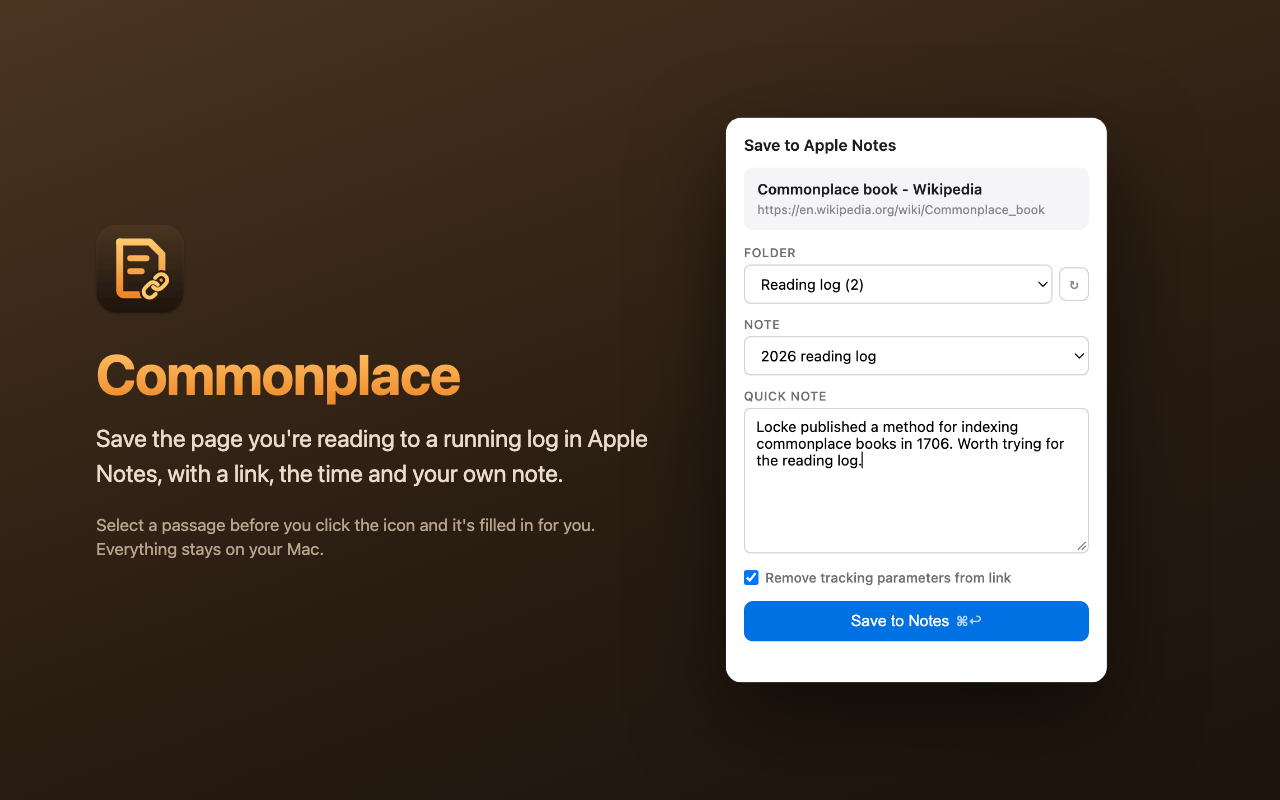
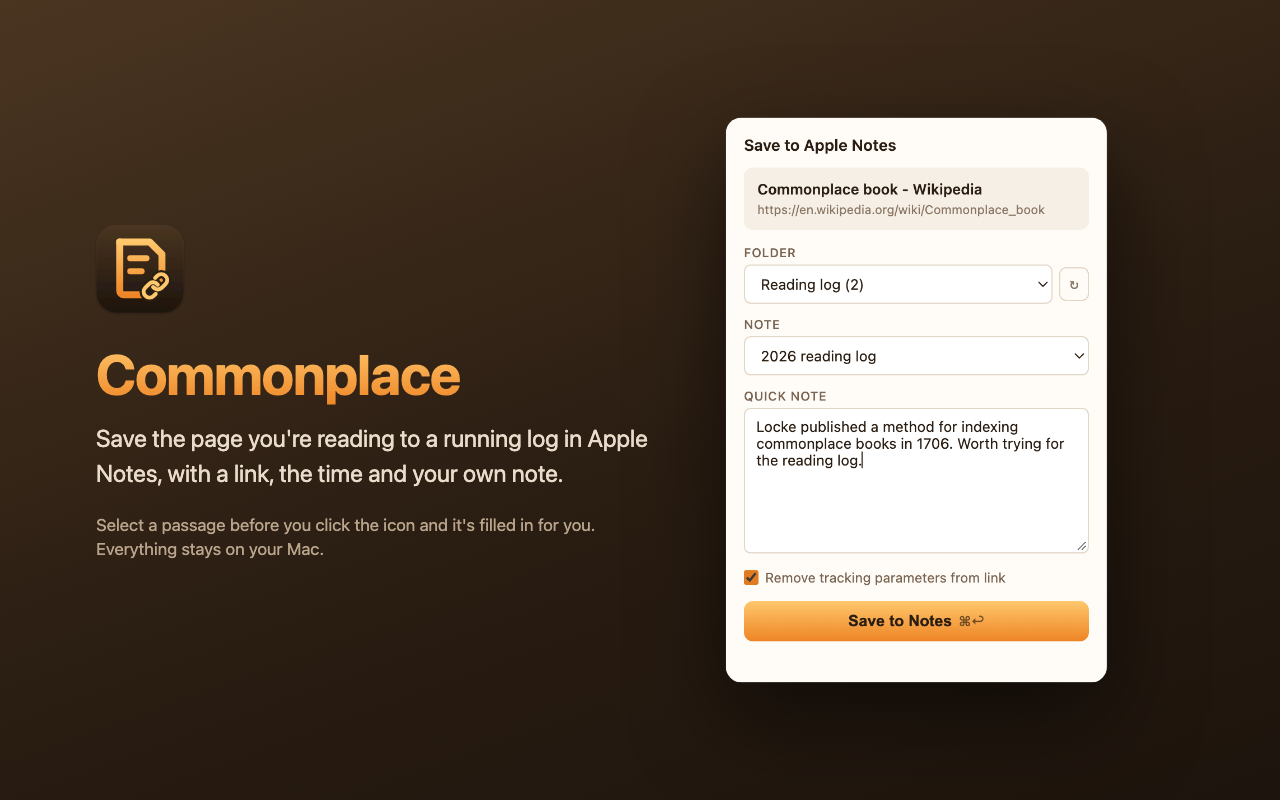
Restyle popup in the Commonplace palette; notarize with quoth-notary
- Popup uses the icon's warm browns with the orange gradient for the
  primary button, checkbox and focus states, plus a matching dark mode
  (previously always white with Apple-blue accents)
- build.sh defaults to the existing quoth-notary notarytool profile
- Regenerated store images

diff --git a/extension/popup.html b/extension/popup.html
@@ -3,6 +3,36 @@
     <head>
         <meta charset="utf-8" />
         <style>
+            /* Palette from the Commonplace icon: warm browns with an orange gradient accent */
+            :root {
+                color-scheme: light dark;
+                --bg: #fffcf8;
+                --surface: #f6efe6;
+                --field: #ffffff;
+                --border: #e2d6c7;
+                --text: #2a1d12;
+                --muted: #8a7663;
+                --label: #7a6552;
+                --accent: #e07b1f;
+                --accent-gradient: linear-gradient(180deg, #ffc86c, #ee8526);
+                --on-accent: #2a1d12;
+                --ok: #2e7d32;
+                --err: #c62828;
+            }
+            @media (prefers-color-scheme: dark) {
+                :root {
+                    --bg: #241910;
+                    --surface: #33251a;
+                    --field: #2c2016;
+                    --border: #4a3828;
+                    --text: #f3e8da;
+                    --muted: #b59e86;
+                    --label: #a88f76;
+                    --accent: #f5a24a;
+                    --ok: #81c784;
+                    --err: #ef8a80;
+                }
+            }
             * {
                 box-sizing: border-box;
                 margin: 0;
@@ -12,9 +42,10 @@
                 width: 340px;
                 font-family: -apple-system, BlinkMacSystemFont, "Segoe UI", sans-serif;
                 font-size: 13px;
-                color: #1d1d1f;
+                color: var(--text);
                 padding: 16px;
-                background: #fff;
+                background: var(--bg);
+                accent-color: var(--accent);
             }
             h1 {
                 font-size: 14px;
@@ -22,7 +53,7 @@
                 margin-bottom: 12px;
             }
             .page-info {
-                background: #f5f5f7;
+                background: var(--surface);
                 border-radius: 8px;
                 padding: 10px 12px;
                 margin-bottom: 14px;
@@ -36,7 +67,7 @@
                 overflow: hidden;
             }
             .page-url {
-                color: #86868b;
+                color: var(--muted);
                 font-size: 11px;
                 margin-top: 2px;
                 white-space: nowrap;
@@ -47,7 +78,7 @@
                 display: block;
                 font-weight: 500;
                 margin-bottom: 4px;
-                color: #6e6e73;
+                color: var(--label);
                 font-size: 11px;
                 text-transform: uppercase;
                 letter-spacing: 0.5px;
@@ -56,28 +87,33 @@
             textarea,
             input[type="text"] {
                 width: 100%;
-                border: 1px solid #d2d2d7;
+                border: 1px solid var(--border);
                 border-radius: 6px;
                 padding: 8px 10px;
                 font-family: inherit;
                 font-size: 13px;
+                color: var(--text);
                 margin-bottom: 12px;
                 outline: none;
-                transition: border-color 0.15s;
-                background: #fff;
+                transition: border-color 0.15s, box-shadow 0.15s;
+                background: var(--field);
             }
             select:focus,
             textarea:focus,
             input[type="text"]:focus {
-                border-color: #0071e3;
+                border-color: var(--accent);
+                box-shadow: 0 0 0 3px color-mix(in srgb, var(--accent) 22%, transparent);
             }
             select:disabled {
-                background: #f5f5f7;
-                color: #86868b;
+                background: var(--surface);
+                color: var(--muted);
             }
             textarea {
                 height: 130px;
                 resize: vertical;
+            }
+            textarea::placeholder {
+                color: var(--muted);
             }
             .row {
                 display: flex;
@@ -91,19 +127,19 @@
             }
             .refresh-btn {
                 background: none;
-                border: 1px solid #d2d2d7;
+                border: 1px solid var(--border);
                 border-radius: 6px;
                 padding: 7px 8px;
                 cursor: pointer;
                 font-size: 14px;
                 line-height: 1;
-                color: #86868b;
-                transition: border-color 0.15s;
+                color: var(--muted);
+                transition: border-color 0.15s, color 0.15s;
                 flex-shrink: 0;
             }
             .refresh-btn:hover {
-                border-color: #0071e3;
-                color: #0071e3;
+                border-color: var(--accent);
+                color: var(--accent);
             }
             .refresh-btn.busy {
                 animation: spin 0.9s linear infinite;
@@ -125,31 +161,43 @@
                 align-items: center;
                 gap: 6px;
                 margin-bottom: 14px;
-                font-size: 12px;
-                color: #6e6e73;
             }
             .checkbox-row input {
                 margin: 0;
+            }
+            .checkbox-row label {
+                margin: 0;
+                text-transform: none;
+                font-size: 12px;
+                font-weight: 400;
+                letter-spacing: 0;
             }
             button#save,
             button#setupLink {
                 width: 100%;
                 padding: 10px;
-                background: #0071e3;
-                color: #fff;
+                background: var(--accent-gradient);
+                color: var(--on-accent);
                 border: none;
                 border-radius: 8px;
                 font-size: 14px;
-                font-weight: 500;
+                font-weight: 600;
                 cursor: pointer;
-                transition: background 0.15s;
+                transition: filter 0.15s;
             }
             button#save:hover,
             button#setupLink:hover {
-                background: #0077ed;
+                filter: brightness(1.05);
+            }
+            button#save:focus-visible,
+            button#setupLink:focus-visible {
+                outline: 2px solid var(--accent);
+                outline-offset: 2px;
             }
             button#save:disabled {
-                background: #d2d2d7;
+                background: var(--surface);
+                color: var(--muted);
+                filter: none;
                 cursor: default;
             }
             .status {
@@ -159,17 +207,18 @@
                 min-height: 16px;
             }
             .status.ok {
-                color: #248a3d;
+                color: var(--ok);
             }
             .status.err {
-                color: #ff3b30;
+                color: var(--err);
             }
             .status.loading {
-                color: #86868b;
+                color: var(--muted);
             }
             .kbd {
-                opacity: 0.7;
+                opacity: 0.65;
                 font-size: 12px;
+                font-weight: 500;
                 margin-left: 6px;
             }
             .setup p {
@@ -177,7 +226,7 @@
                 margin-bottom: 12px;
             }
             .setup .muted {
-                color: #86868b;
+                color: var(--muted);
                 font-size: 11px;
                 margin: 10px 0 0;
                 user-select: text;
@@ -220,11 +269,7 @@
 
             <div class="checkbox-row">
                 <input type="checkbox" id="stripQuery" checked />
-                <label
-                    for="stripQuery"
-                    style="margin: 0; text-transform: none; font-size: 12px; color: #6e6e73; letter-spacing: 0"
-                    >Remove tracking parameters from link</label
-                >
+                <label for="stripQuery">Remove tracking parameters from link</label>
             </div>
 
             <button id="save" disabled>Save to Notes<span class="kbd">⌘↩</span></button>
